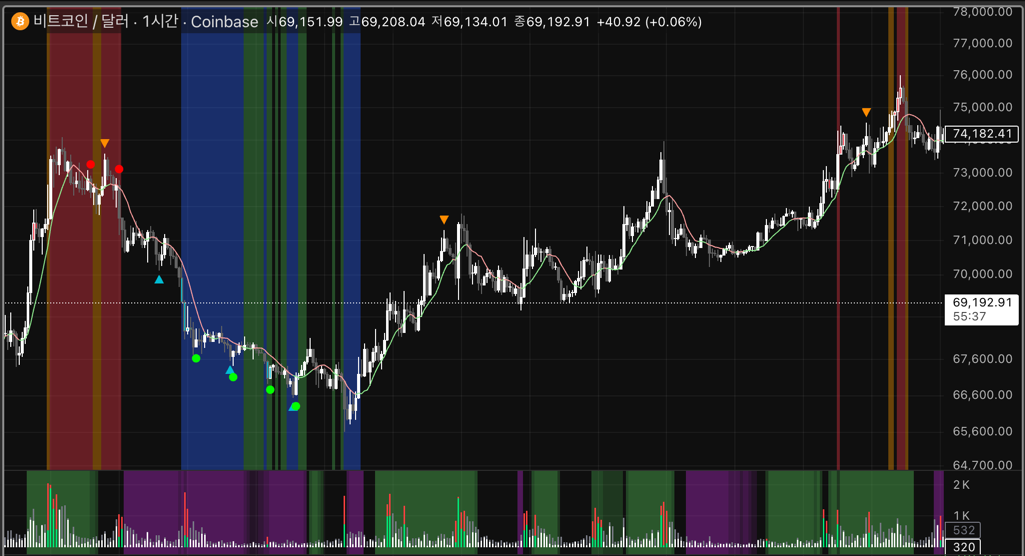
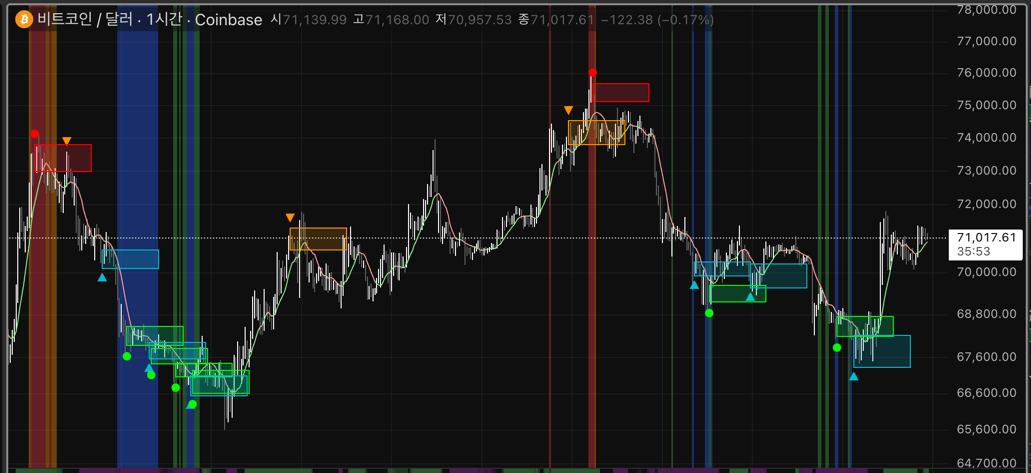
코드 업데이트

diff --git a/pinescript/비정상 가격 추적 (캔들)/README.md b/pinescript/비정상 가격 추적 (캔들)/README.md
@@ -13,8 +13,11 @@
 - cRSI 과매수 / 과매도와 볼린저 밴드 이탈을 결합한 비정상 캔들 색상
 - 매수 / 매도 거래량 기반 비정상 거래량 판단
 - RSI 다이버전스
+- RSI 다이버전스 기준봉 박스
 - ATR 기반 배경 구간
 - `Strong Long / Strong Short` 진입 신호
+- 강한 배경 근처 롱숏 가산점
+- `Strong Long / Strong Short` 신호봉 전체 범위를 기준으로 한 기준봉 박스
 
 배경 구간은 아래 두 기준을 별도로 계산한 뒤 합쳐서 표시합니다.
 
@@ -27,6 +30,8 @@
 - 보조 종합 신호(MFI + cRSI 갭, 가격 확장, 거래량)
 
 이 두 신호는 차트에 직접 라벨로 표시되지는 않지만, 배경 판단과 `Strong L/S` 점수 계산에 반영됩니다.
+
+`Strong Long / Strong Short`가 확정되면 해당 신호봉의 `고가~저가` 전체 범위를 같은 색 계열 박스로 우측 연장해, 이후 지지/저항 반응 구간처럼 볼 수 있게 했습니다.
 
 ## 트레이딩뷰 적용 방법
 
@@ -48,8 +53,11 @@
 | cRSI + 동적 밴드 | 과매수/과매도와 최근 분포 극단을 같이 봅니다. | `cRSI Dominant Cycle`, `Vibration`, `Leveling`, `절대 과매수/과매도` |
 | 비정상 캔들 | `cRSI 극단 + 볼린저 몸통 초과`가 동시에 나올 때 색을 바꿉니다. | `비정상 캔들 볼린저 기간/배수`, `몸통 초과 비율` |
 | 스마트 비정상 거래량 | 봉 형태, MA, cRSI까지 포함해 강한 매수/매도 체결을 압축합니다. | `비정상 거래량 배수`, `MA 필터`, `cRSI 필터` |
-| RSI 다이버전스 | 강세/약세 다이버전스를 삼각형으로 표시합니다. | `RSI 기간`, `Pivot Left/Right` |
+| RSI 다이버전스 | 강세/약세 다이버전스를 삼각형으로 표시하고, 실제 피벗 봉의 `고가~저가` 범위도 박스로 남깁니다. | `RSI 기간`, `Pivot Left/Right`, `다이버전스 기준봉 존 표시` |
 | ATR 배경 구간 | 이상 신호 뒤 실제 후속 이동이 붙었는지 배경으로 보여줍니다. | `ATR 기간`, `ATR 배수`, `강한 배경 배수` |
+| 롱숏 신호 구조 | 세팅 점수와 확인 점수를 합산해 롱/숏 신호를 독립적으로 표시합니다. | `최소 진입 점수`, `강한 진입 점수`, `동일 방향 신호 쿨다운` |
+| 강한 배경 가산점 | 파랑/빨강 강한 배경이 최근 봉 안에 있으면 같은 방향 세팅 점수에 가산점을 더합니다. | `강한 배경 근접 봉 수`, `강한 배경 가산점` |
+| Strong 기준봉 박스 | `Strong` 신호가 나온 봉의 `고가~저가` 범위를 박스로 연장해 반응 구간을 보여줍니다. | `기준봉 존 표시`, `기준봉 우측 연장 봉 수`, `최대 기준봉 표시 수` |
 
 내부 종합 신호는 아래처럼 간단히 보면 됩니다.
 
@@ -57,7 +65,7 @@
 | --- | --- | --- |
 | 거래량 압력 종합 신호 | 정렬 + 비정상 거래량을 묶어 압력을 계산합니다. | `vpBullPressureSignal`, `vpBearPressureSignal` |
 | 보조 종합 신호 | cRSI/MFI 갭, 가격 확장, 거래량, 턴을 묶어 계산합니다. | `helperBullishSignal`, `helperBearishSignal` |
-| Strong L/S 진입 신호 | 세팅 점수와 확인 점수를 합산해 최종 진입 후보를 만듭니다. | `Strong Long`, `Strong Short` |
+| Strong L/S 진입 신호 | 세팅 점수와 확인 점수를 합산하고, 강한 배경 근접 가산점까지 반영해 최종 진입 후보를 만듭니다. | `Strong Long`, `Strong Short` |
 
 짧게 보면:
 
@@ -90,8 +98,10 @@
 2. 비정상 과매수 / 과매도 캔들이 있는지 봅니다.
 3. RSI 다이버전스가 붙는지 확인합니다.
 4. ATR 배경이 켜지는지, 강한 배경인지 확인합니다.
-5. `Strong Long / Strong Short`가 뜨면 세팅과 확인 점수가 모두 통과된 것으로 해석합니다.
-6. 거래량과 배경 방향이 같은 쪽이면 우선순위를 높여 봅니다.
+5. 파랑 강한 배경 근처에서는 롱, 빨강 강한 배경 근처에서는 숏 점수에 가산점이 붙는다고 보고 해석합니다.
+6. `Strong Long / Strong Short`가 뜨면 세팅과 확인 점수가 모두 통과된 것으로 해석합니다.
+7. 다이버전스 박스와 Strong 기준봉 박스가 어디까지 연장되는지 보고 이후 지지/저항 반응 구간으로 활용합니다.
+8. 거래량과 배경 방향이 같은 쪽이면 우선순위를 높여 봅니다.
 
 ## 세력 관점 해석
 
@@ -131,6 +141,15 @@
 
 다만 피벗 확정 뒤에 표시되므로, 실전에서는 `선행 신호`보다 `후행 확인` 성격이 강합니다.
 
+차트에는 다이버전스가 확정된 `실제 피벗 봉의 고가~저가 범위`도 방향별 박스로 함께 표시됩니다.
+
+- 강세 다이버전스 박스:
+  - 저점 피벗 봉의 `고가~저가` 전체 범위를 기준으로 우측 연장됩니다.
+  - 이후 재테스트가 오면 `흡수 구간`처럼 반응을 확인하는 데 유용합니다.
+- 약세 다이버전스 박스:
+  - 고점 피벗 봉의 `고가~저가` 전체 범위를 기준으로 우측 연장됩니다.
+  - 이후 되돌림이 오면 `분산 구간`처럼 반응을 확인하는 데 유용합니다.
+
 ### 4. ATR 배경 구간
 
 이 배경은 `이상 징후 이후 실제 가격 이동이 어느 쪽으로 이어졌는지`를 보여줍니다.
@@ -153,12 +172,27 @@
 - `Strong Long`
   - 과매도성 흔들림 이후 되돌림, 강세 배경, 거래량 확인, MA 위 복귀가 겹친 자리일 가능성이 높습니다.
   - 세력 관점으로는 `아래 유동성 회수 후 재상승` 시나리오를 압축한 신호로 볼 수 있습니다.
+  - 차트에는 해당 `Strong Long` 봉의 `고가~저가` 범위가 초록 계열 기준봉 박스로 함께 표시됩니다.
 
 - `Strong Short`
   - 과매수성 흔들림 이후 되밀림, 약세 배경, 거래량 확인, MA 아래 복귀가 겹친 자리일 가능성이 높습니다.
   - 세력 관점으로는 `위 유동성 회수 후 재하락` 시나리오를 압축한 신호로 볼 수 있습니다.
+  - 차트에는 해당 `Strong Short` 봉의 `고가~저가` 범위가 빨강 계열 기준봉 박스로 함께 표시됩니다.
 
 다만 상위 추세에 역행하는 `Strong` 신호는 반등/반락 폭만 주고 끝날 수 있으니, 추세 추적과 반드시 같이 봐야 합니다.
+
+Strong 기준봉 박스는 `직전 반대봉`이 아니라 `Strong 신호가 발생한 바로 그 봉의 고가~저가 전체 범위`입니다. 그래서 이 박스는 손절선보다는 `신호가 만들어진 핵심 가격대`를 다시 확인하는 용도로 보는 편이 맞습니다.
+
+### 5-1. 강한 배경 가산점
+
+롱숏 신호를 막지는 않지만, `강한 강세 배경(파랑)`이나 `강한 약세 배경(빨강)`이 최근 봉 안에 있었다면 같은 방향 점수에 가산점을 더합니다.
+
+- 롱 가산점:
+  - 최근 `강한 강세 배경`이 있었을 때 세팅 점수 추가
+- 숏 가산점:
+  - 최근 `강한 약세 배경`이 있었을 때 세팅 점수 추가
+
+즉 배경색은 `최종 차단 필터`가 아니라, `근처에서 신호를 더 자신 있게 보게 만드는 점수 보정` 역할로 바뀐 상태입니다.
 
 ### 6. 이 지표로 예측할 수 있는 움직임
 
@@ -188,6 +222,9 @@
 - 이 지표는 `자리 압축`에 가장 강합니다.
 - 비정상 캔들 하나만으로 들어가는 것보다, 다이버전스와 배경 신호가 겹칠 때 훨씬 낫습니다.
 - `Strong Long / Short`는 좋은 세팅이지만, 상위 추세 반대면 짧게 먹고 나오는 전략이 더 안전합니다.
+- 기준봉 박스는 진입 신호가 아니라 `신호가 만들어진 가격 구간`을 보여주는 보조 표시입니다.
+- 다이버전스 박스는 다이버전스가 표시된 `실제 피벗 봉`을 다시 보게 해주는 확인용 존입니다.
+- 배경색은 현재 버전에서 롱숏 최종 신호를 막지 않고, 강한 배경 근처에서만 같은 방향 점수 보정에 사용됩니다.
 
 ## 추가 표시 옵션
 
@@ -197,6 +234,8 @@
 - `비정상 캔들 볼린저 밴드 표시`
 - `매수/매도 거래량 평균선 표시`
 - `Strong L/S 진입 신호 표시`
+- `기준봉 존 표시`
+- `다이버전스 기준봉 존 표시`
 
 ## 주의사항
 
@@ -206,3 +245,6 @@
 - `빠른 cRSI 밴드 계산 사용`을 끄면 과거 방식 밴드 계산으로 돌아가며 더 무거워질 수 있습니다.
 - 종목과 타임프레임에 따라 `비정상 캔들 몸통 밴드 초과 비율`, `ATR 과도 이동 배수`, `RSI 추가 이동 제한값`, `비정상 거래량 배수 기준`, `최소 진입 점수` 튜닝이 필요합니다.
 - `Strong Long / Short`도 신호 봉 고점/저점이 바로 무너지면 실패 세팅이므로, 진입보다 무효화 기준을 먼저 정해야 합니다.
+- 기준봉 박스는 `Strong` 신호봉의 `고가~저가` 전체 범위 기준이며, 손절 가격을 자동으로 표시하지는 않습니다.
+- 강한 배경 가산점은 `파랑/빨강 강한 배경`이 최근 몇 봉 안에 있었는지 기준으로 작동하므로, 종목에 따라 근접 봉 수와 가산점을 조정하는 편이 좋습니다.
+- 다이버전스 박스는 다이버전스가 확정되는 시점에 표시되지만, 박스 시작점은 실제 피벗 봉에 맞춰집니다.
